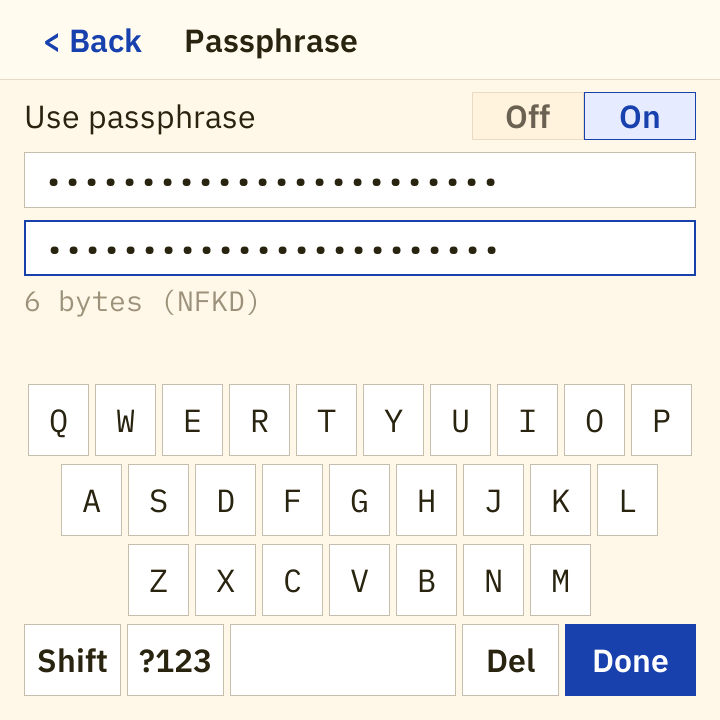
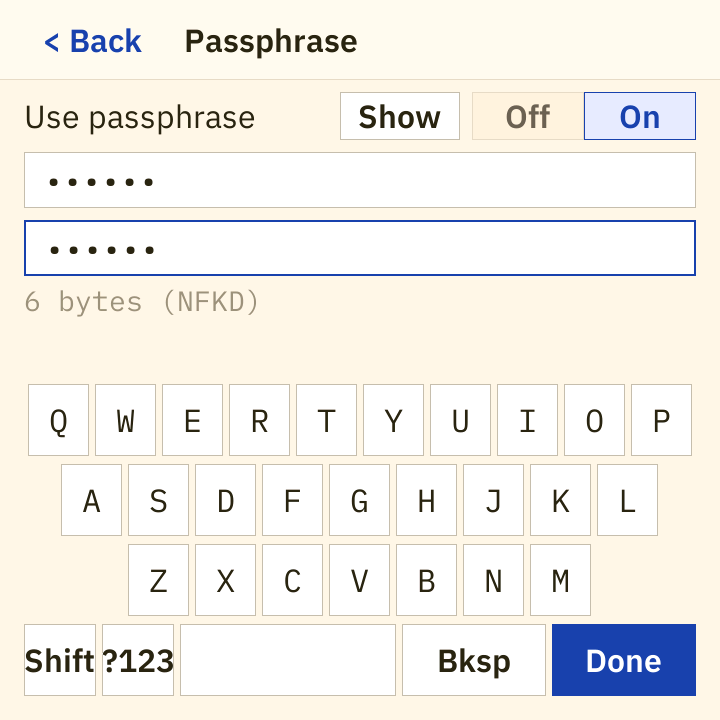
uisim: drive the interstitial and the strip, regenerate the screenshots
The simulator IS the firmware's usage of the UI crate, so it now runs the full
embedder loop - tap Done, capture the Deriving frame, then tick - which is also
the proof that the interstitial is reachable and painted before the derivation
rather than after it.

Three new frames: the passphrase revealed through Show, the Deriving
interstitial, and phrase entry mid-word with the completion strip at full width.
Two existing frames change: the passphrase mask is now one bullet per typed
character (six for TREZOR) with the Show button beside the Off/On toggle instead
of on top of the "Use passphrase" label, and phrase entry gains the strip.

The tally printed at the end counts the PNGs it wrote instead of restating a
hardcoded number, which had already drifted (it claimed 13 for 12 files).

Verified byte-identical across two separate runs, not only across the two
renders each frame already does internally.

diff --git a/tools/uisim/src/main.rs b/tools/uisim/src/main.rs
@@ -130,6 +130,16 @@ fn type_keys(ui: &mut Ui, s: &str) {
     }
 }
 
+/// The embedder's `touch -> draw -> tick` loop, which is what the Deriving interstitial
+/// exists for: the frame is captured BEFORE the blocking derivation, exactly as the
+/// firmware publishes it before spending seconds in PBKDF2.
+fn done_and_derive(ui: &mut Ui, out_dir: &Path, name: &str) {
+    tap(ui, RegionId::KeyDone);
+    assert_eq!(ui.screen(), notyas_ui::ScreenId::Deriving, "Done must park on the interstitial");
+    shot(out_dir, name, ui);
+    assert!(ui.tick(), "tick must run the pending derivation");
+}
+
 // ---------------------------------------------------------------------------------------
 // PNG output
 // ---------------------------------------------------------------------------------------
@@ -212,6 +222,8 @@ fn main() {
     shot(&out_dir, "05-mnemonic-revealed", &ui);
 
     // Passphrase: opt in, type the official test-vector passphrase in both fields.
+    // Masked one bullet per character (the INPUT rule), then revealed through the
+    // Show toggle - the two frames the passphrase QA round is about.
     tap(&mut ui, RegionId::Next);
     tap(&mut ui, RegionId::PassToggle);
     tap(&mut ui, RegionId::Shift); // TREZOR is uppercase
@@ -219,9 +231,13 @@ fn main() {
     tap(&mut ui, RegionId::PassConfirm);
     type_keys(&mut ui, "TREZOR");
     shot(&out_dir, "06-passphrase", &ui);
+    tap(&mut ui, RegionId::PassShow);
+    shot(&out_dir, "13-passphrase-shown", &ui);
+    tap(&mut ui, RegionId::PassShow);
 
-    // Schemes: BIP44 default tab, plus the BIP84 tab.
-    tap(&mut ui, RegionId::KeyDone);
+    // Schemes: BIP44 default tab, plus the BIP84 tab. Done paints the interstitial
+    // first; `tick` is where PBKDF2 actually runs.
+    done_and_derive(&mut ui, &out_dir, "14-deriving");
     shot(&out_dir, "07-schemes-bip44", &ui);
     tap(&mut ui, RegionId::Tab(2));
     shot(&out_dir, "08-schemes-bip84", &ui);
@@ -258,5 +274,14 @@ fn main() {
     type_keys(&mut ui, "zoo zoo zoo zoo zoo zoo zoo zoo zoo zoo zoo wrong");
     shot(&out_dir, "11-phrase-entry", &ui);
 
-    println!("done: 13 screens, deterministic (each frame rendered twice, byte-identical)");
+    // ...and the same screen mid-word, where the BIP39 completion strip is live. "ab"
+    // has more matches than the strip shows, so this is the strip at full width.
+    type_keys(&mut ui, " ab");
+    shot(&out_dir, "15-phrase-autocomplete", &ui);
+
+    let shots = std::fs::read_dir(&out_dir)
+        .expect("read output dir")
+        .filter(|e| e.as_ref().is_ok_and(|e| e.path().extension().is_some_and(|x| x == "png")))
+        .count();
+    println!("done: {shots} screens, deterministic (each frame rendered twice, byte-identical)");
 }

diff --git a/docs/screenshots/ui/README.md b/docs/screenshots/ui/README.md
@@ -23,9 +23,13 @@ Sample data - all of it public test-vector material, none of it a real seed:
 | 03-mnemonic-masked.png | Mnemonic display, masked (fixed 6-bullet runs) |
 | 04-reveal-confirm.png | Two-step reveal confirm modal |
 | 05-mnemonic-revealed.png | Mnemonic display, revealed |
-| 06-passphrase.png | Passphrase entry, both fields masked (fixed 24-bullet run), NFKD byte counter |
+| 06-passphrase.png | Passphrase entry, both fields masked ONE bullet per typed character (the INPUT rule), NFKD byte counter |
 | 07-schemes-bip44.png | Schemes, BIP44 tab (xpub + receive addresses, QR buttons) |
 | 08-schemes-bip84.png | Schemes, BIP84 tab (incl. SLIP-132 zpub + QR buttons) |
 | 09-schemes-qr.png | QR modal (account xpub - public values only; no private-key QR exists) |
 | 10-verify-device.png | Verify device (DUMMY values) |
 | 11-phrase-entry.png | Verify existing seed, typed phrase + checksum advisory |
+| 12-exit-modal.png | Exit-confirmation modal over a screen holding derived secrets |
+| 13-passphrase-shown.png | Passphrase entry with Show on: the literal input, spaces drawn as muted bullets |
+| 14-deriving.png | Deriving interstitial - painted and published before PBKDF2 runs |
+| 15-phrase-autocomplete.png | Phrase entry mid-word: the BIP39 completion strip at full width |
